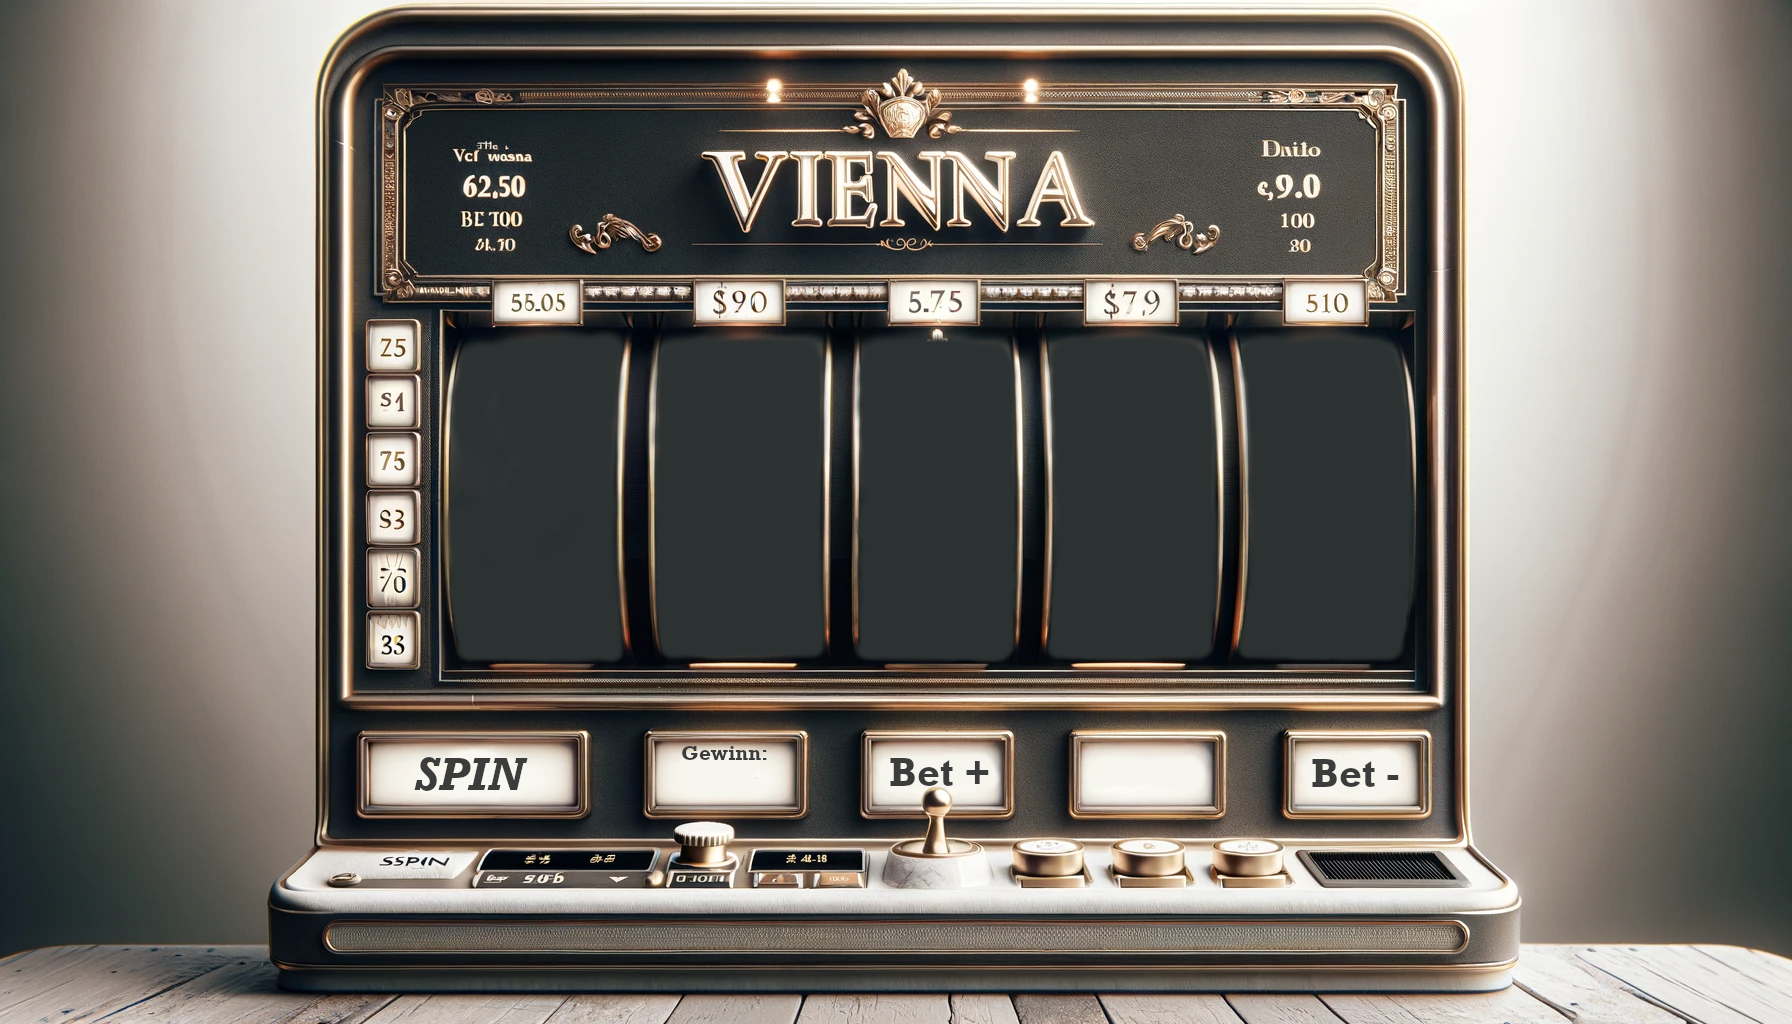
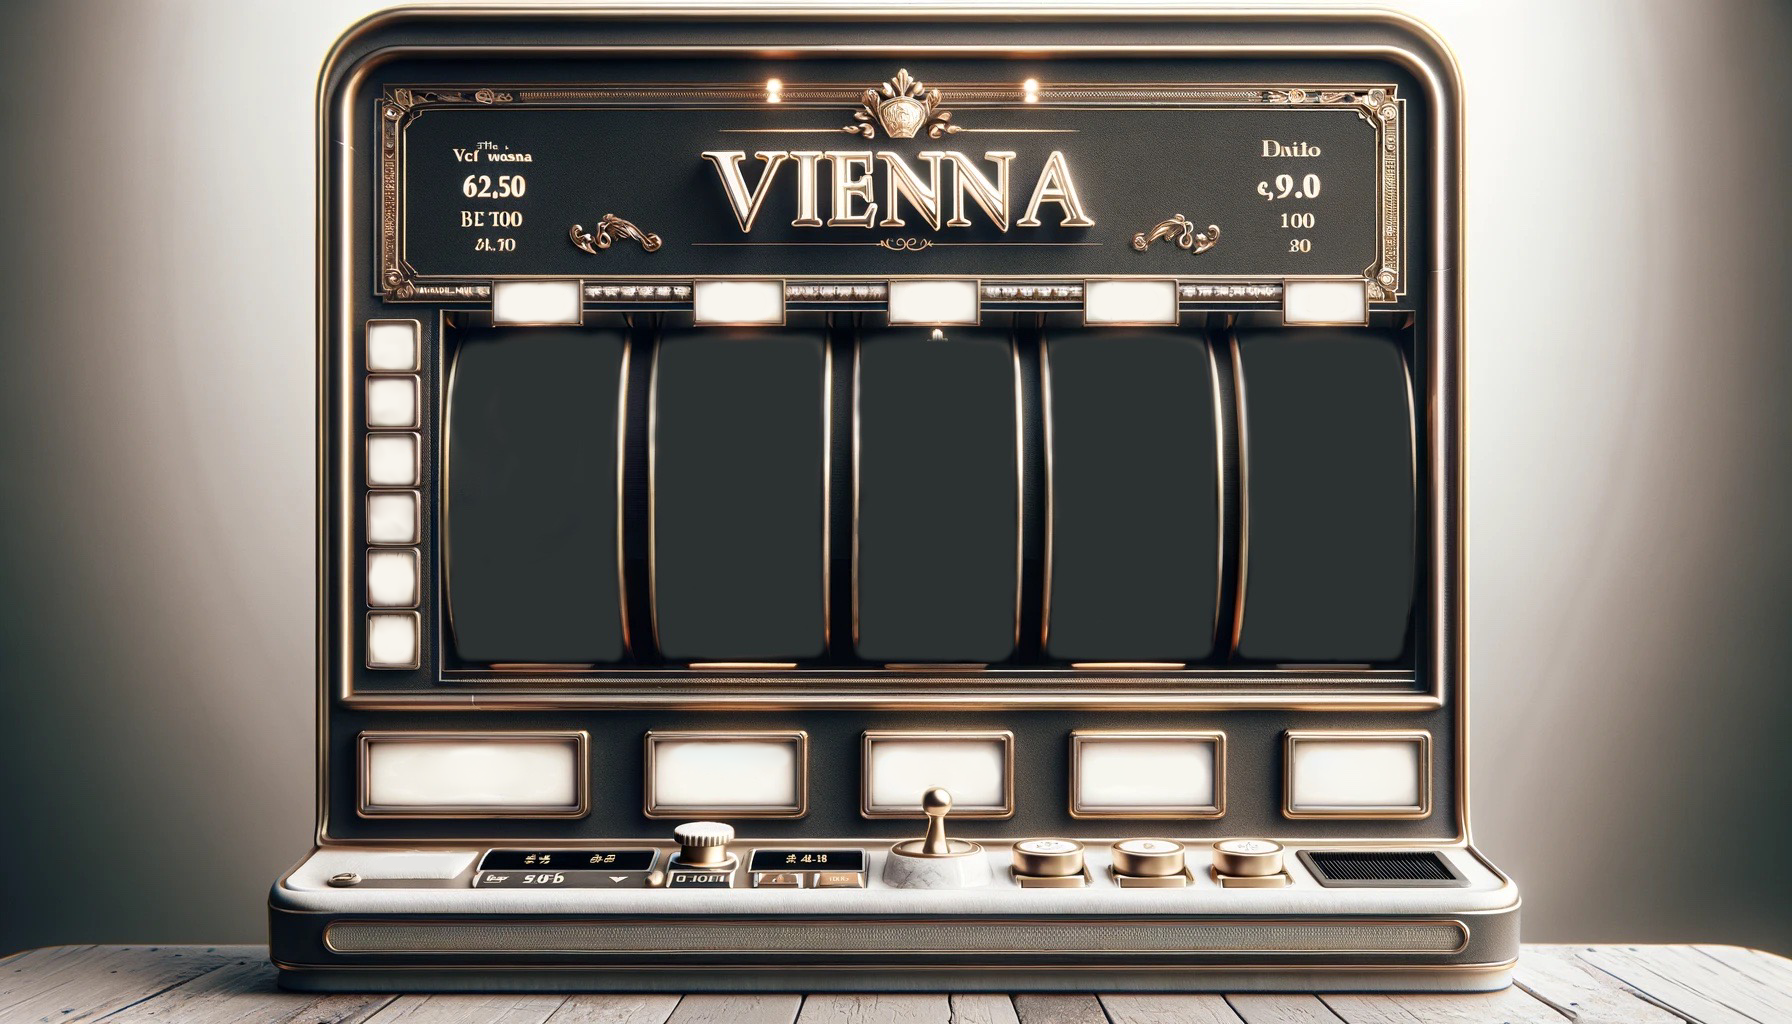
Added Info Panel to the project by clicking the i-button on the machine, some improvements to the background image, implements visual feedback when any button is pressed and released add stage titles

diff --git a/src/main/java/at/ac/fhcampuswien/slotmachine_syntax/Controller/SlotMachineController.java b/src/main/java/at/ac/fhcampuswien/slotmachine_syntax/Controller/SlotMachineController.java
@@ -3,17 +3,22 @@ package at.ac.fhcampuswien.slotmachine_syntax.Controller;
 import at.ac.fhcampuswien.slotmachine_syntax.Model.GameResult;
 import at.ac.fhcampuswien.slotmachine_syntax.Model.Symbol;
 import at.ac.fhcampuswien.slotmachine_syntax.Model.SymbolType;
+import at.ac.fhcampuswien.slotmachine_syntax.SlotMachineApplication;
 import javafx.animation.PauseTransition;
 import javafx.fxml.FXML;
+import javafx.fxml.FXMLLoader;
+import javafx.scene.Scene;
 import javafx.scene.control.Alert;
 import javafx.scene.control.Alert.AlertType;
 import javafx.scene.control.Button;
 import javafx.scene.control.Label;
 import javafx.scene.image.Image;
 import javafx.scene.image.ImageView;
+import javafx.scene.input.MouseEvent;
 import javafx.scene.layout.GridPane;
+import javafx.stage.Stage;
 import javafx.util.Duration;
-
+import java.io.IOException;
 import java.util.Collections;
 import java.util.List;
 
@@ -117,7 +122,15 @@ public class SlotMachineController {
     }
     @FXML
     private void onInfoButtonClick() {
-
+        try {
+            FXMLLoader fxmlLoader = new FXMLLoader(SlotMachineApplication.class.getResource("info.fxml"));
+            Stage stage = new Stage();
+            stage.setTitle("Info");
+            stage.setScene(new Scene(fxmlLoader.load(), 896, 512));
+            stage.show();
+        } catch (IOException e) {
+            System.out.println("Failed to load Information panel.");;
+        }
     }
 
     // Initialize method if needed
@@ -167,5 +180,36 @@ public class SlotMachineController {
         iv.setX((iv.getFitWidth() - width) / 2);
         iv.setY((iv.getFitHeight() - height) / 2);
     }
-}
 
+    public void onSpinButtonPressed(MouseEvent mouseEvent) {
+        spinBtn.setOpacity(0.3);
+    }
+
+    public void onSpinButtonReleased(MouseEvent mouseEvent) {
+        spinBtn.setOpacity(0.0);
+    }
+
+    public void onIncreaseBetButtonPressed(MouseEvent mouseEvent) {
+        increaseBetBtn.setOpacity(0.3);
+    }
+
+    public void onIncreaseBetButtonReleased(MouseEvent mouseEvent) {
+        increaseBetBtn.setOpacity(0.0);
+    }
+
+    public void onDecreaseBetButtonPressed(MouseEvent mouseEvent) {
+        decreaseBetBtn.setOpacity(0.3);
+    }
+
+    public void onDecreaseBetButtonReleased(MouseEvent mouseEvent) {
+        decreaseBetBtn.setOpacity(0.0);
+    }
+
+    public void onInfoButtonPressed(MouseEvent mouseEvent) {
+        infoBtn.setOpacity(0.3);
+    }
+
+    public void onInfoButtonReleased(MouseEvent mouseEvent) {
+        infoBtn.setOpacity(0.0);
+    }
+}

diff --git a/src/main/java/at/ac/fhcampuswien/slotmachine_syntax/SlotMachineApplication.java b/src/main/java/at/ac/fhcampuswien/slotmachine_syntax/SlotMachineApplication.java
@@ -13,6 +13,7 @@ public class SlotMachineApplication extends Application {
         FXMLLoader fxmlLoader = new FXMLLoader(SlotMachineApplication.class.getResource("slotMachine.fxml"));
         Scene scene = new Scene(fxmlLoader.load(), 1180, 675);
         stage.setScene(scene);
+        stage.setTitle("Slot Machine");
         stage.show();
     }
 
